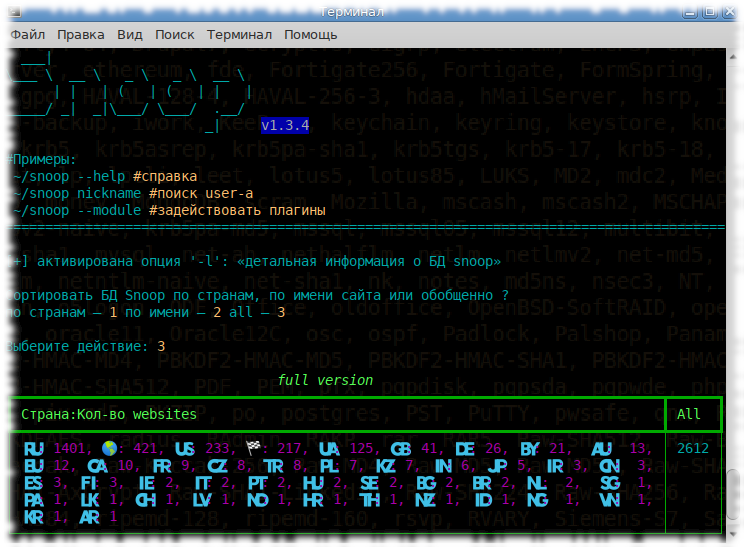
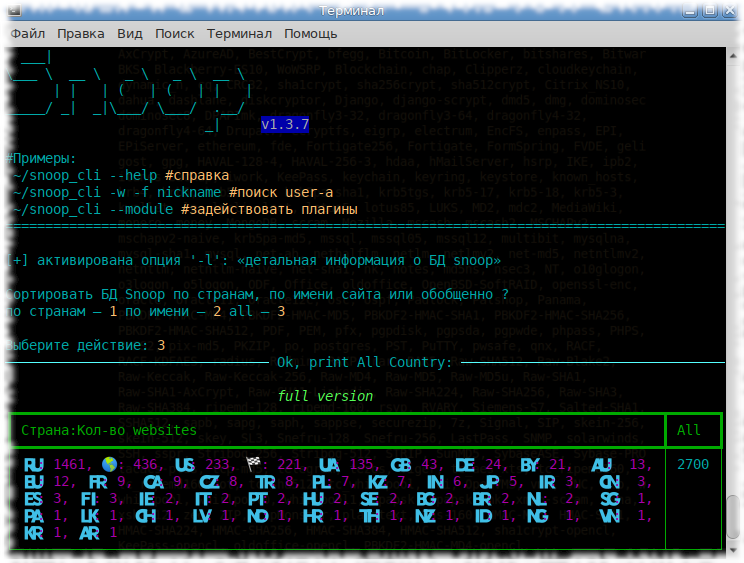
v1.3.7

diff --git a/snoop.py b/snoop.py
@@ -68,7 +68,7 @@ init(autoreset=True)
 console = Console()
 
 
-vers, vers_code, demo_full = 'v1.3.6f', "s", "d"
+vers, vers_code, demo_full = 'v1.3.7', "s", "d"
 
 print(f"""\033[36m
   ___|
@@ -106,7 +106,7 @@ print("")
 e_mail = 'demo: snoopproject@protonmail.com'
 # лицензия: год/месяц/число.
 license = 'лицензия'
-ts = (2024, 1, 13, 3, 0, 0, 0, 0, 0)
+ts = (2024, 3, 5, 3, 0, 0, 0, 0, 0)
 date_up = int(time.mktime(ts))  #дата в секундах с начала эпохи
 up1 = time.gmtime(date_up)
 Do = (f"{up1.tm_mday}/{up1.tm_mon}/{up1.tm_year}")  #в UTC (-3 часа)

diff --git a/README.md b/README.md
@@ -15,7 +15,7 @@ that is, it is available to the average user.
 > *Snoop — это исследовательская работа (собственная база данных/закрытые багбаунти) в области поиска и обработки публичных данных в сети интернет. По части специализированного поиска Snoop способен конкурировать с традиционными поисковыми системами.*  
 
 Сравнение индексаций БД-никнеймов подобных инструментов:  
-<img src="https://img.shields.io/badge/Snoop-~2600+%20websites-success" width="30%" />  
+<img src="https://img.shields.io/badge/Snoop-~2700+%20websites-success" width="30%" />  
 <img src="https://img.shields.io/badge/Sherlock-~350 websites-yellowgreen" width="20%" />  
 <img src="https://img.shields.io/badge/Spiderfoot-~350 websites-yellowgreen" width="20%" />  
 <img src="https://img.shields.io/badge/Whatsmyname-~300 websites-yellowgreen" width="20%" />  
@@ -37,7 +37,7 @@ Snoop for OS Windows and GNU/Linux
 
 **Snoop Local database**  
 <img src="https://raw.githubusercontent.com/snooppr/snoop/master/images/snoop_run.png" />  
-[Snoop full version database 2600+ websites ⚡⚡⚡](https://github.com/snooppr/snoop/blob/master/websites.md "Database Snoop")  
+[Snoop full version database 2700+ websites ⚡⚡⚡](https://github.com/snooppr/snoop/blob/master/websites.md "Database Snoop")  
 
 ## Релиз/Release
 <img src="https://raw.githubusercontent.com/snooppr/snoop/master/images/snoop box.png" width="35%" />  
@@ -140,7 +140,7 @@ search arguments:
   --verbose, -v         Во время поиска 'nickname' выводить на печать
                         подробную вербализацию
   --web-base, -w        Подключиться для поиска 'nickname' к
-                        динамично-обновляемой web_БД (2600+ сайтов). В demo
+                        динамично-обновляемой web_БД (2700+ сайтов). В demo
                         version функция отключена
   --site , -s <site_name> 
                         Указать имя сайта из БД '--list-all'. Поиск
@@ -304,7 +304,7 @@ $ cd && pkg install termux-tools; echo 'allow-external-apps=true' >>.termux/term
 # ПРИМЕЧАНИЕ_3!: после отключения РФ от Лондонской точки обмена интернет-трафиком скорость поиска Snoop
 # (возможно и у других поставщиков связи) на мобильных операторах Мегафон/Yota упала в ~2 раза.
 ```
-ПРИМЕЧАНИЕ_4!: если ваш Android ущербный (то есть 12+) и ломает Termux, читайте инструкцию по решению проблемы [здесь](https://github.com/agnostic-apollo/Android-Docs/blob/master/en/docs/apps/processes/phantom-cached-and-empty-processes.md#how-to-disable-the-phantom-processes-killing).  
+ПРИМЕЧАНИЕ_4!: если у пользователя Android ущербный (то есть 12+) и ломает Termux, читайте инструкцию по решению проблемы [здесь](https://github.com/agnostic-apollo/Android-Docs/blob/master/en/docs/apps/processes/phantom-cached-and-empty-processes.md#how-to-disable-the-phantom-processes-killing).  
 ПРИМЕЧАНИЕ_5!: поддерживаются старые пропатченные python версии 3.7-3.10 из [termux_tur repo](https://github.com/termux-user-repository/tur/tree/master/tur).  
 
 <p align="center">  
@@ -363,8 +363,8 @@ $ cd && pkg install termux-tools; echo 'allow-external-apps=true' >>.termux/term
 
 6. Не обращать внимание, сайты иногда уходят на ремонтные работы и возвращаются в строй.
 
-7. [Проблема](https://wiki.debian.org/ContinuousIntegration/TriagingTips/openssl-1.1.1 "проблема простая и решаемая") с openssl в некоторых дистрибутивах GNU/Linux, а также проблема с сайтами, которые не обновлялись годами. Проблемы эти встречаются, если пользователь намеренно запустил snoop с опцией '--cert-on'.  
-Решение:
+7. [Проблема](https://wiki.debian.org/ContinuousIntegration/TriagingTips/openssl-1.1.1 "проблема простая и решаемая") с openssl в некоторых дистрибутивах GNU/Linux, а также проблема с сайтами, которые не обновлялись годами. Проблема эта встречается, если пользователь намеренно запустил snoop с опцией '--cert-on'.  
+Решение не использовать опцию «--cert-on» или:
 ```
 $ sudo nano /etc/ssl/openssl.cnf
 

diff --git a/README.en.md b/README.en.md
@@ -14,7 +14,7 @@ that is, it is available to the average user.
 According to Snoop's specialized search, it is capable of competing with traditional search engines.*  
 
 Comparison of indexations of databases such tools:  
-<img src="https://img.shields.io/badge/Snoop-~2600+%20websites-success" width="30%" />  
+<img src="https://img.shields.io/badge/Snoop-~2700+%20websites-success" width="30%" />  
 <img src="https://img.shields.io/badge/Sherlock-~350 websites-yellowgreen" width="20%" />  
 <img src="https://img.shields.io/badge/Spiderfoot-~350 websites-yellowgreen" width="20%" />  
 <img src="https://img.shields.io/badge/Whatsmyname-~300 websites-yellowgreen" width="20%" />  
@@ -36,7 +36,7 @@ Snoop for OS Windows and GNU/Linux
 
 **Snoop Local database**  
 <img src="https://raw.githubusercontent.com/snooppr/snoop/master/images/EN_DB.png" />  
-[Snoop Full version database 2600+ websites ⚡⚡⚡](https://github.com/snooppr/snoop/blob/master/websites.md "Database Snoop")  
+[Snoop Full version database 2700+ websites ⚡⚡⚡](https://github.com/snooppr/snoop/blob/master/websites.md "Database Snoop")  
 
 ## Release
 <img src="https://raw.githubusercontent.com/snooppr/snoop/master/images/snoop box.png" width="35%" />  
@@ -137,7 +137,7 @@ search arguments:
   --verbose, -v         When searching for 'nickname', print detailed
                         verbalization
   --web-base, -w        Connect to search for 'nickname' to the updated web_DB
-                        (2600+ websites). In demo version the function is disabled
+                        (2700+ websites). In demo version the function is disabled
   --site , -s <site_name> 
                         Specify the name of the site from the database 
                         '--list-all'. Search for 'nickname' on one specified
